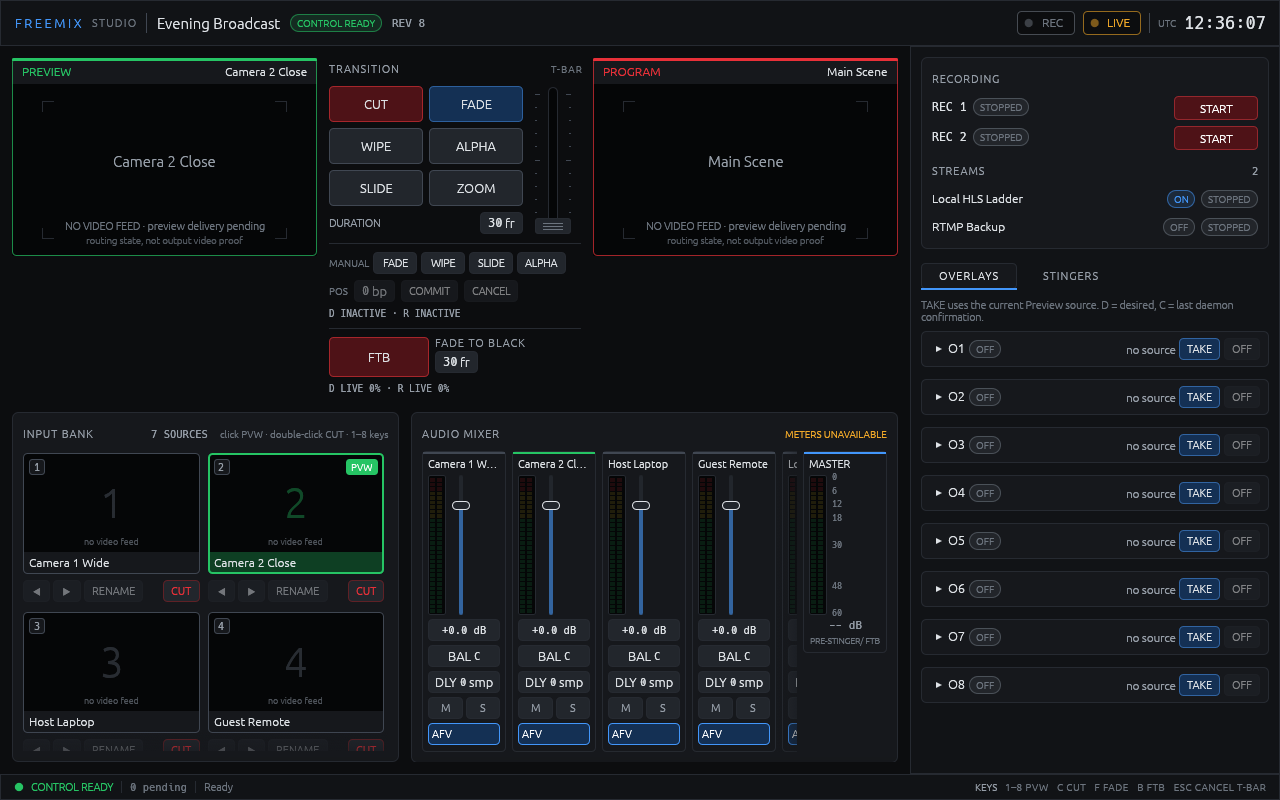
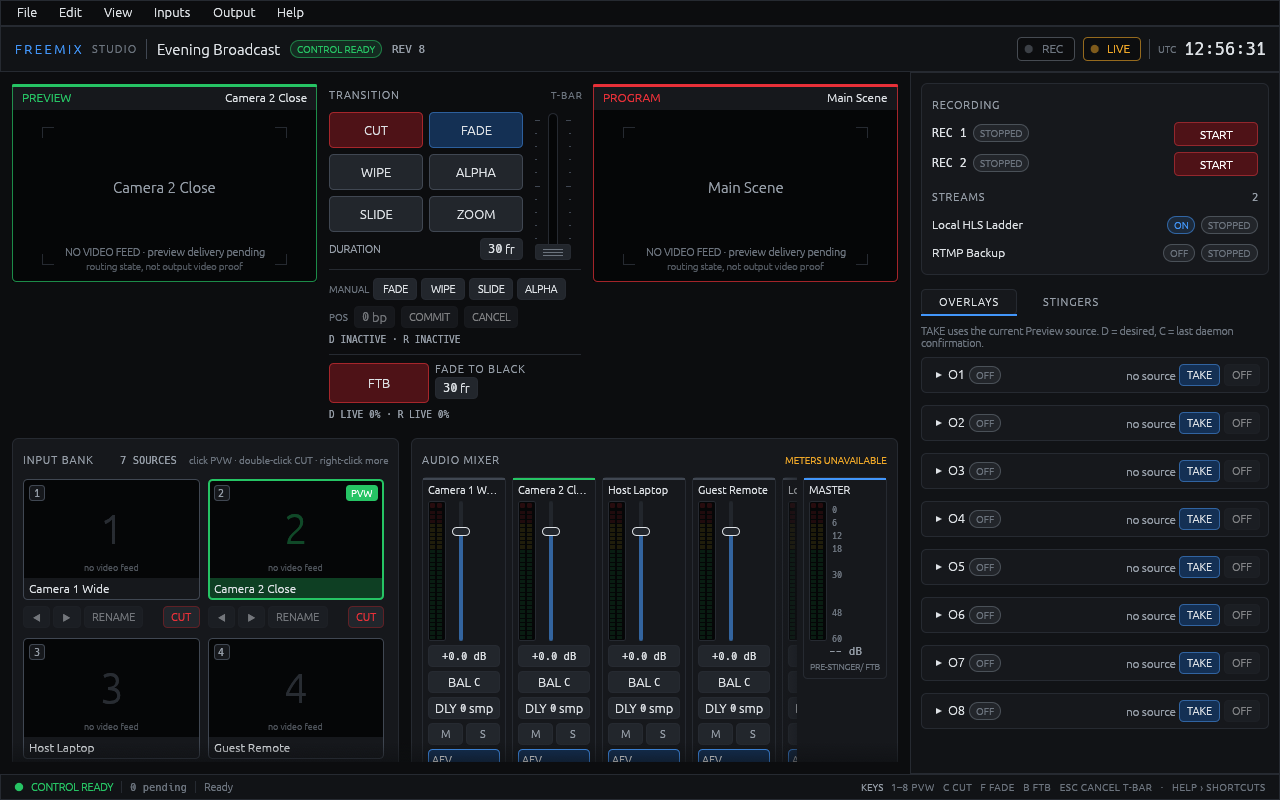
docs(progress): capture the menu, shortcuts, tile menu, and reconnect states

diff --git a/docs/progress/README.md b/docs/progress/README.md
@@ -7,16 +7,34 @@ supervised daemon runs in simulated mode, so the mixer header reports
 show replicated routing state over a dark 16:9 well with the explicit
 `NO VIDEO FEED · preview delivery pending` caption rather than output video.
 
-The console layout: a top bar (show name, connection pill, revision, `REC` and
-`LIVE` on-air badges, UTC clock); Preview and Program monitors with tally
+The console layout: a menu bar (File / Edit / View / Inputs / Output / Help);
+a top bar (show name, connection pill, revision, `REC` and `LIVE` on-air
+badges, UTC clock); Preview and Program monitors with tally
 headers around the transition column (Cut/Fade/Wipe/Alpha/Slide/Zoom keys,
 shared duration, vertical manual T-bar with its start/commit/cancel keys, and
 Fade-to-Black); the input bank as tally-bordered tiles (click = Preview,
 double-click or `CUT` = Preview then Cut); the audio mixer with vertical
-channel strips (segmented peak/RMS meters, fader, gain/balance/delay, M/S/AFV)
-and a pinned Master meter strip; a side panel with recording and stream status
-above Overlays/Stingers tabs; and a bottom status bar with the latest
-result/notice and keyboard hints.
+channel strips (segmented RMS meters with a peak line, a peak-hold marker that
+holds 1.5 s then falls 20 dB/s, and a clip lamp latched 3 s at 0 dBFS; fader,
+gain/balance/delay, M/S/AFV) and a pinned Master meter strip; a side panel
+with recording and stream status above Overlays/Stingers tabs; and a bottom
+status bar with the latest result/notice and keyboard hints.
+
+Menu items map only to existing Studio intents under their usual gates (the
+Edit menu acts on the Preview input; there is no add/remove-input or stream
+start/stop intent, so none is offered, and the Streams item explains that).
+View toggles the input bank, mixer, side panel, and status bar. Every gated
+control, menu item, and tile action shows its action and shortcut as a tooltip
+and, when disabled, the first blocking gate ("Unavailable: this session lacks
+the edit_project permission"). Input tiles have hover, pressed, and keyboard
+focus states (Tab to focus, Enter/Space selects Preview) and a right-click menu.
+When the console is not Ready a centered card over the monitors reports
+connecting / synchronizing / reconnecting (with attempt and retry delay) /
+protocol mismatch / failure. Command rejections, notices, and
+terminal-uncertainty notices raise bounded, auto-expiring toasts at the
+bottom-right while the console is Ready; the status bar keeps the latest
+message. The meters stay unlit in these simulated-mode captures, so peak hold
+and clip lamps are not visible here.
 
 | File | What it shows |
 |---|---|
@@ -24,6 +42,10 @@ result/notice and keyboard hints.
 | `studio-console-top.png` | The default 1600x940 window, idle: both recorder slots `STOPPED` with their `START` keys, overlays collapsed to one row per channel. |
 | `studio-console-stopped.png` | The compact 1280x800 layout with both recorder slots `STOPPED`; the input bank and mixer scroll inside their cards and the Master strip stays pinned. |
 | `studio-console-recording.png` | 1600x940 with independent per-slot recording (`REC 1 STOPPED` / `START` beside `REC 2 RECORDING` / `STOP`) and the Stingers tab showing all eight unconfigured slots. |
+| `studio-console-menu.png` | 1920x1080 with the Output menu open (transitions with their `C`/`F` keys, Fade to black `B`, manual T-bar Commit/Cancel `Esc`, per-slot recorder Start, and the read-only Streams note), hovering the disabled Commit item to show its reason. |
+| `studio-console-shortcuts.png` | Help › Keyboard shortcuts: the modal reference generated from the same table the console's key handler is tested against. |
+| `studio-console-input-menu.png` | Right-click menu on the Host Laptop tile: Select on Preview / Cut to Program enabled; Rename and Move disabled because the operator session lacks `edit_project`. |
+| `studio-console-reconnecting.png` | 1600x940 Studio started with `--connect` to an address with no daemon: the Reconnecting card with its attempt count and retry delay over the dimmed monitors, every control disabled, and the full error in the status bar. |
 
 The demo show used for the captures ("Evening Broadcast") has six simulated
 inputs, one scene input ("Main Scene") with two picture-in-picture layers, an
@@ -79,4 +101,9 @@ DISPLAY=:99 import -window root shot.png
 
 Software Vulkan is slow; allow roughly ten seconds after the window maps
 before capturing. The overview's overlay take was a click on O1 `TAKE` in the
-side panel; the recording capture clicked the `STINGERS` tab.
+side panel; the recording capture clicked the `STINGERS` tab. The menu,
+shortcuts, and input-menu captures click `Output`, `Help` › `Keyboard
+shortcuts`, and right-click the third tile (`xdotool click 3`); keyboard input
+such as `Escape` needs `xdotool windowfocus "$WIN"` first because Xvfb runs
+without a window manager. The reconnecting capture runs
+`freemix-studio --connect 127.0.0.1:7399 --project-id 1` with nothing listening.
